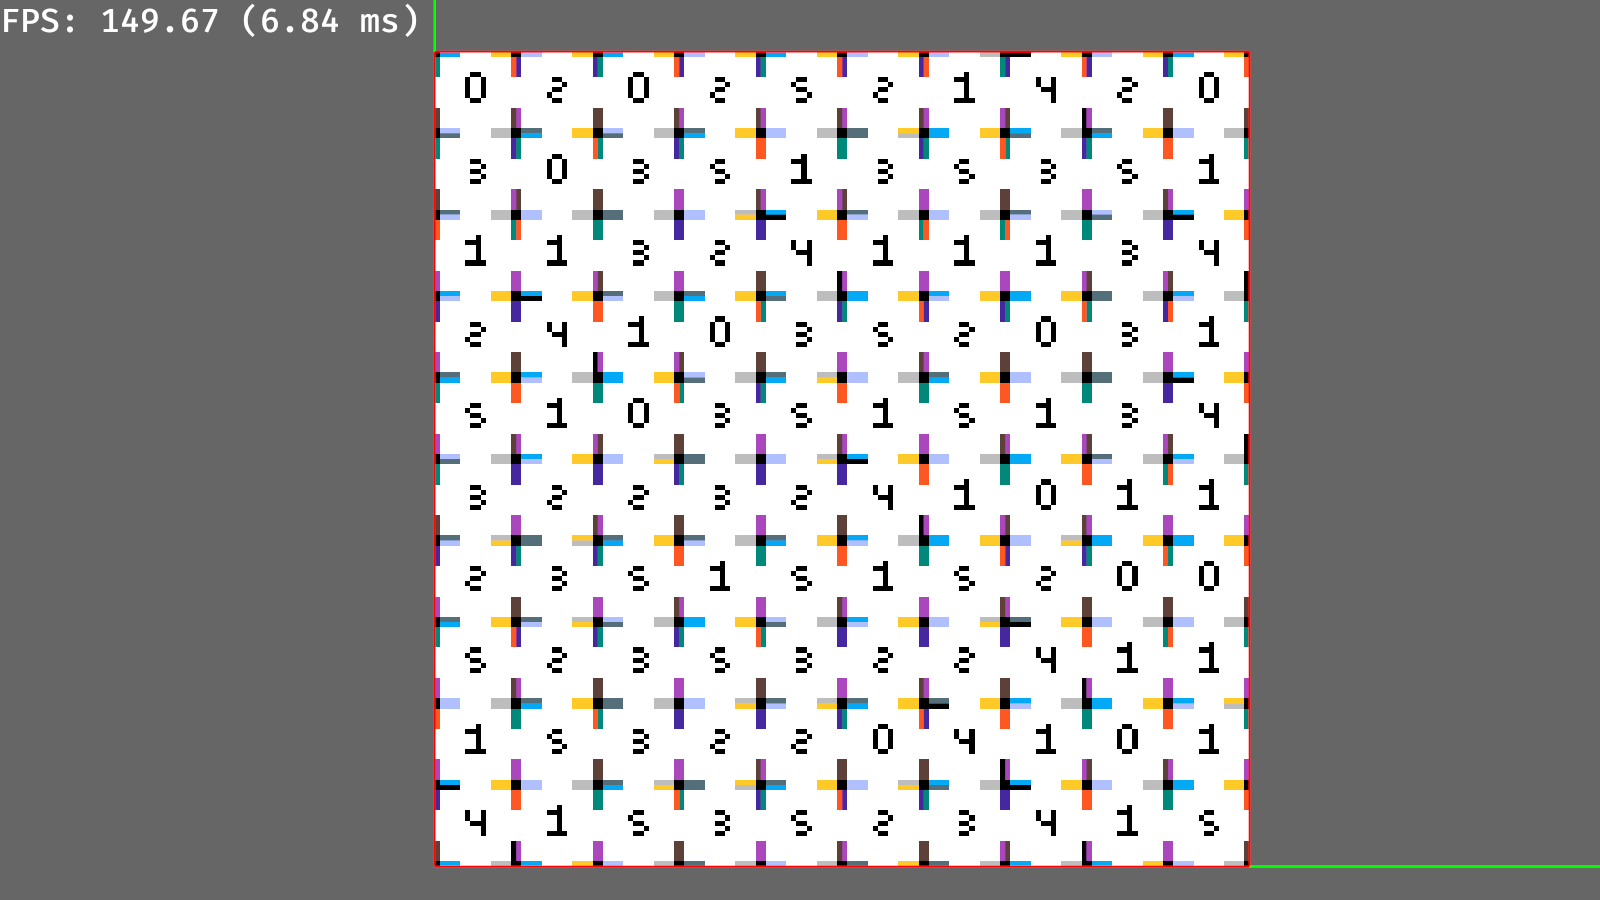
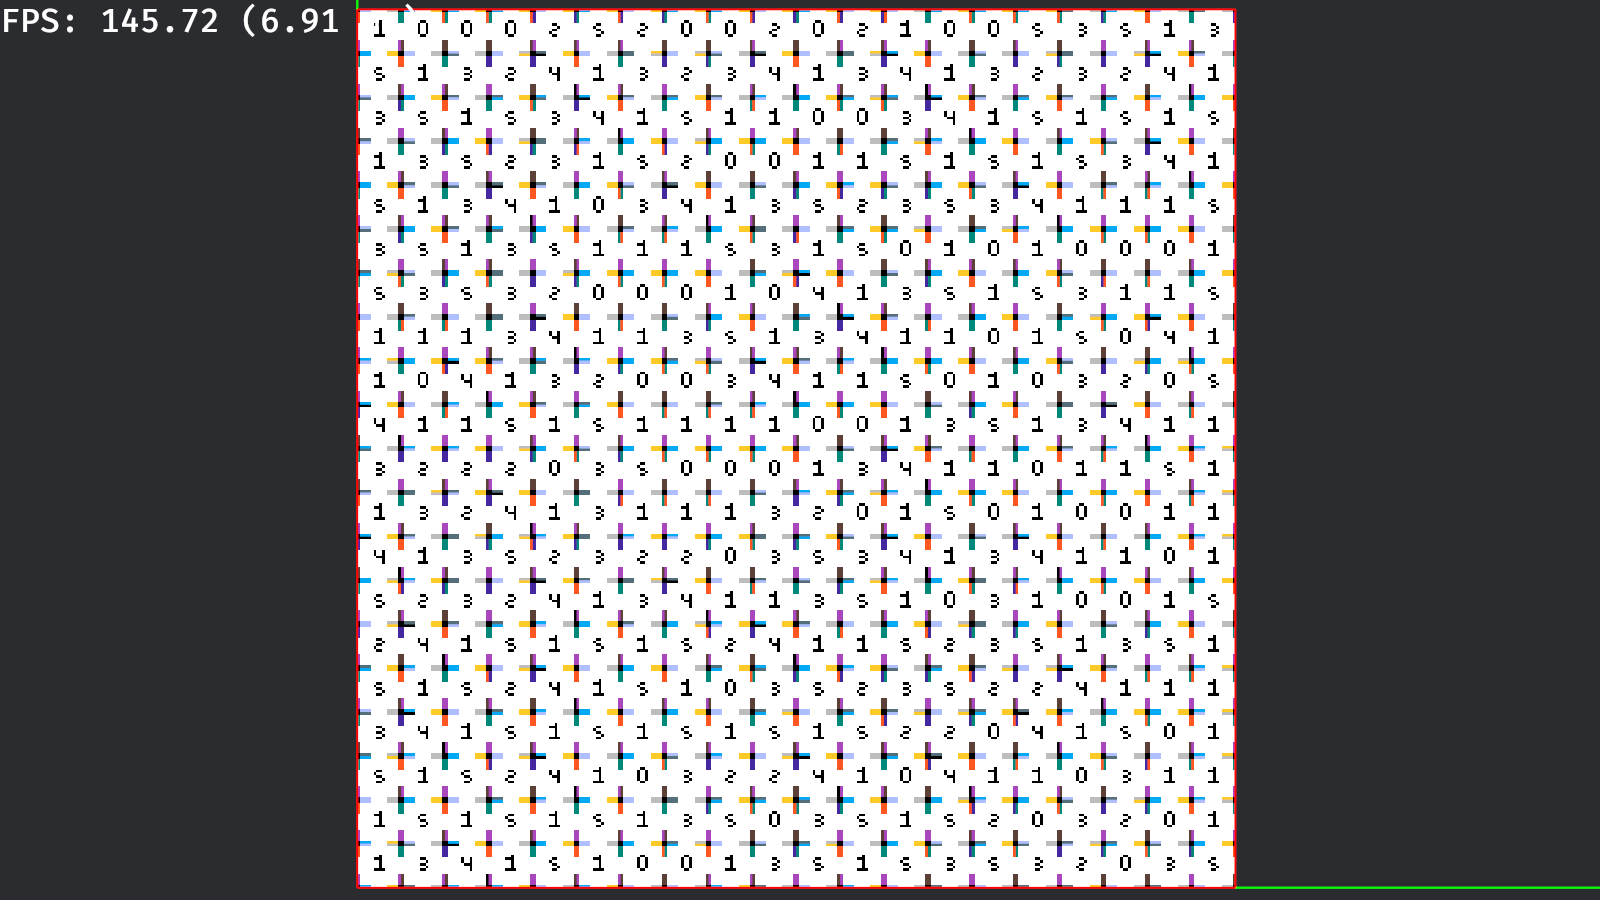
Improved wfc, updated readme

diff --git a/src/algorithm/wfc.rs b/src/algorithm/wfc.rs
@@ -38,14 +38,14 @@ pub enum WfcMode {
 /// This feature is still in preview. It may fail to generate a map and stuck in an infinite loop.
 #[derive(Component)]
 pub struct WfcRunner {
-    rule: Vec<[IndexSet<u16>; 4]>,
+    rule: Vec<[u128; 4]>,
     mode: WfcMode,
-    sampler: Option<Box<dyn Fn(&IndexSet<u16>, UVec2) -> u16 + Send + Sync>>,
+    sampler: Option<Box<dyn Fn(WfcTile) -> u8 + Send + Sync>>,
     seed: Option<u64>,
     area: FillArea,
     step_interval: Option<f32>,
     max_retrace_factor: u32,
-    max_retrace_time: u32,
+    max_retrace_count: u32,
     fallback: Option<Box<dyn Fn(Entity) + Send + Sync>>,
 }
 
@@ -64,7 +64,7 @@ impl WfcRunner {
     pub fn from_config(
         config_path: String,
         weights_path: Option<String>,
-        custom_sampler: Option<Box<dyn Fn(&IndexSet<u16>, UVec2) -> u16 + Send + Sync>>,
+        custom_sampler: Option<Box<dyn Fn(WfcTile) -> u8 + Send + Sync>>,
         area: FillArea,
         step_interval: Option<f32>,
         seed: Option<u64>,
@@ -73,12 +73,23 @@ impl WfcRunner {
             from_bytes(read_to_string(config_path).unwrap().as_bytes()).unwrap();
 
         let mut mode = WfcMode::NonWeighted;
-        let mut rule: Vec<[IndexSet<u16>; 4]> = Vec::with_capacity(rule_vec.len());
+        let mut rule_set: Vec<[IndexSet<u16>; 4]> = Vec::with_capacity(rule_vec.len());
         for tex_idx in 0..rule_vec.len() {
             let mut tex_rule: [IndexSet<u16>; 4] = Default::default();
             for dir in 0..4 {
                 for idx in rule_vec[tex_idx][dir].iter() {
                     tex_rule[dir].insert(*idx);
+                }
+            }
+            rule_set.push(tex_rule);
+        }
+
+        let mut rule: Vec<[u128; 4]> = Vec::with_capacity(rule_set.len());
+        for tex_idx in 0..rule_set.len() {
+            let mut tex_rule: [u128; 4] = Default::default();
+            for dir in 0..4 {
+                for idx in rule_set[tex_idx][dir].iter() {
+                    tex_rule[dir] |= 1 << idx;
                 }
             }
             rule.push(tex_rule);
@@ -93,10 +104,10 @@ impl WfcRunner {
                 from_bytes(read_to_string(weights_path).unwrap().as_bytes()).unwrap();
             assert_eq!(
                 weights_vec.len(),
-                rule.len(),
+                rule_set.len(),
                 "weights length not match! weights: {}, rules: {}",
                 weights_vec.len(),
-                rule.len()
+                rule_set.len()
             );
             mode = WfcMode::Weighted(weights_vec);
         }
@@ -114,8 +125,8 @@ impl WfcRunner {
             area,
             step_interval,
             seed,
-            max_retrace_factor: 8,
-            max_retrace_time: 200,
+            max_retrace_factor: 4,
+            max_retrace_count: 200,
             fallback: None,
         }
     }
@@ -124,10 +135,14 @@ impl WfcRunner {
     /// The higher those parameters are, the higher the probability of success is.
     /// But it will also dramatically increase the time cost.
     ///
-    /// Default: `max_retrace_factor` = 8, `max_retrace_time` = 200
-    pub fn with_retrace_settings(mut self, max_retrace_factor: u32, max_retrace_time: u32) -> Self {
+    /// Default: `max_retrace_factor` = 4, `max_retrace_time` = 200
+    pub fn with_retrace_settings(
+        mut self,
+        max_retrace_factor: u32,
+        max_retrace_count: u32,
+    ) -> Self {
         self.max_retrace_factor = max_retrace_factor;
-        self.max_retrace_time = max_retrace_time;
+        self.max_retrace_count = max_retrace_count;
         self
     }
 
@@ -139,17 +154,30 @@ impl WfcRunner {
 }
 
 #[derive(Debug, Clone)]
-struct WfcTile {
+pub struct WfcTile {
     pub index: UVec2,
     pub collapsed: bool,
-    pub texture_index: Option<u16>,
+    pub texture_index: Option<u8>,
     pub heap_index: usize,
-    pub psbs: IndexSet<u16>,
+    pub psbs: u128,
 }
 
+impl WfcTile {
+    pub fn get_vec_psbs(&self) -> Vec<u8> {
+        let mut result = Vec::with_capacity(self.psbs.count_ones() as usize);
+        for i in 0..128 {
+            if self.psbs & (1 << i) != 0 {
+                result.push(i as u8);
+            }
+        }
+        result
+    }
+}
+
+#[derive(Clone)]
 struct WfcHistory {
     grid: Vec<WfcTile>,
-    heap: Vec<(u16, UVec2)>,
+    heap: Vec<(u8, UVec2)>,
     remaining: usize,
 }
 
@@ -159,9 +187,9 @@ struct WfcGrid {
     size: UVec2,
     grid: Vec<WfcTile>,
     rng: StdRng,
-    rule: Vec<[IndexSet<u16>; 4]>,
-    sampler: Option<Box<dyn Fn(&IndexSet<u16>, UVec2) -> u16 + Send + Sync>>,
-    heap: Vec<(u16, UVec2)>,
+    rule: Vec<[u128; 4]>,
+    sampler: Option<Box<dyn Fn(WfcTile) -> u8 + Send + Sync>>,
+    heap: Vec<(u8, UVec2)>,
     remaining: usize,
     retrace_strength: u32,
     max_retrace_factor: u32,
@@ -186,10 +214,10 @@ impl WfcGrid {
                     index: UVec2 { x, y },
                     texture_index: None,
                     collapsed: false,
-                    psbs: (0..max_psbs).collect(),
+                    psbs: (!0) >> (128 - max_psbs),
                 });
 
-                heap.push((runner.rule.len() as u16, UVec2 { x, y }));
+                heap.push((runner.rule.len() as u8, UVec2 { x, y }));
                 heap_index += 1;
             }
         }
@@ -208,7 +236,7 @@ impl WfcGrid {
             remaining: runner.area.size(),
             retrace_strength: 1,
             max_retrace_factor: runner.max_retrace_factor,
-            max_retrace_time: runner.max_retrace_time,
+            max_retrace_time: runner.max_retrace_count,
             retraced_time: 0,
             sampler: runner.sampler.take(),
             fallback: runner.fallback.take(),
@@ -272,32 +300,26 @@ impl WfcGrid {
         }
 
         let index = tile.index;
-        let entropy = tile.psbs.len() as usize;
+        let entropy = tile.psbs.count_ones() as usize;
 
         let psb = match &self.mode {
-            WfcMode::NonWeighted => self.rng.sample(Uniform::new(0, entropy)),
-            WfcMode::Weighted(w) => {
-                let weights = tile.psbs.iter().map(|p| w[*p as usize]).collect::<Vec<_>>();
-                self.rng.sample(WeightedIndex::new(weights).unwrap())
+            WfcMode::NonWeighted => {
+                let psb_vec = tile.get_vec_psbs();
+                psb_vec[self.rng.sample(Uniform::new(0, entropy))]
             }
-            WfcMode::CustomSampler => self.sampler.as_ref().unwrap()(&tile.psbs, index) as usize,
+            WfcMode::Weighted(w) => {
+                let psb_vec = tile.get_vec_psbs();
+                let weights = psb_vec.iter().map(|p| w[*p as usize]).collect::<Vec<_>>();
+                psb_vec[self.rng.sample(WeightedIndex::new(weights).unwrap())]
+            }
+            WfcMode::CustomSampler => self.sampler.as_ref().unwrap()(tile.clone()) as u8,
         };
 
-        self.retrace_strength *= self.rng.sample(Uniform::new(2, self.max_retrace_factor));
+        self.retrace_strength *= self.rng.sample(Uniform::new(1, self.max_retrace_factor));
 
-        let mode = self.mode.clone();
         let tile = self.get_tile_mut(index).unwrap();
-
-        // because of the existing of ownership,
-        // we can't map the indices to possibilities when mathing.
-        if mode == WfcMode::CustomSampler {
-            tile.texture_index = Some(psb as u16);
-            tile.psbs = IndexSet::from([psb as u16]);
-        } else {
-            tile.texture_index = Some(tile.psbs[psb]);
-            tile.psbs = IndexSet::from([tile.psbs[psb]]);
-        }
-
+        tile.texture_index = Some(psb);
+        tile.psbs = 1 << psb;
         tile.collapsed = true;
 
         self.spread_constraint(index);
@@ -315,7 +337,7 @@ impl WfcGrid {
             let cur_tile = self.get_tile(cur_ctr).unwrap().clone();
 
             let neighbours = self.neighbours(cur_ctr);
-            let mut psbs_cache = vec![IndexSet::default(); 4];
+            let mut psbs_cache = vec![0; 4];
 
             // constrain
             for dir in 0..neighbours.len() {
@@ -328,22 +350,18 @@ impl WfcGrid {
                 #[cfg(feature = "debug_verbose")]
                 println!("constraining: {:?}", neighbours[dir]);
 
-                for psb in cur_tile.psbs.iter() {
-                    psbs_cache[dir] = psbs_cache[dir]
-                        .union(&self.rule[*psb as usize][dir])
-                        .map(|e| *e)
-                        .collect::<IndexSet<u16>>();
+                for i in 0..self.rule.len() {
+                    if cur_tile.psbs & (1 << i) != 0 {
+                        psbs_cache[dir] |= self.rule[i][dir];
+                    }
                 }
-                psbs_cache[dir] = psbs_cache[dir]
-                    .intersection(&neighbour_tile.psbs)
-                    .map(|e| *e)
-                    .collect::<IndexSet<u16>>();
+                psbs_cache[dir] &= neighbour_tile.psbs;
                 #[cfg(feature = "debug_verbose")]
                 println!(
                     "{}'s psbs: {:?}, dir={})",
                     neighbours[dir], psbs_cache[dir], dir
                 );
-                if psbs_cache[dir].len() == 0 {
+                if psbs_cache[dir].count_ones() == 0 {
                     #[cfg(feature = "debug_verbose")]
                     println!("start retrace because of: {}", neighbours[dir]);
                     self.retrace();
@@ -371,10 +389,18 @@ impl WfcGrid {
     pub fn retrace(&mut self) {
         #[cfg(feature = "debug")]
         println!("retrace with strength: {}", self.retrace_strength);
-        for _ in 0..self.retrace_strength - 1 {
-            self.history.pop();
-        }
-        let hist = self.history.pop().unwrap();
+        let hist = {
+            if self.history.len() > self.retrace_strength as usize {
+                for _ in 0..self.retrace_strength {
+                    self.history.pop();
+                }
+                self.history.pop().unwrap()
+            } else {
+                let h = self.history[0].clone();
+                self.history.clear();
+                h
+            }
+        };
         self.grid = hist.grid;
         self.remaining = hist.remaining;
         self.heap = hist.heap;
@@ -420,7 +446,7 @@ impl WfcGrid {
 
         let tile = self.get_tile_mut(index).unwrap();
         let heap_index = tile.heap_index;
-        self.heap[heap_index].0 = tile.psbs.len() as u16;
+        self.heap[heap_index].0 = tile.psbs.count_ones() as u8;
         self.shift_up(heap_index);
     }
 

diff --git a/examples/wfc.rs b/examples/wfc.rs
@@ -13,7 +13,7 @@ use bevy_entitiles::{
     tilemap::{TileType, TilemapBuilder},
     EntiTilesPlugin,
 };
-use indexmap::IndexSet;
+use rand::Rng;
 
 fn main() {
     App::new()
@@ -28,7 +28,7 @@ fn setup(mut commands: Commands, asset_server: Res<AssetServer>) {
 
     let (tilemap_entity, tilemap) = TilemapBuilder::new(
         TileType::Square,
-        UVec2 { x: 50, y: 50 },
+        UVec2 { x: 20, y: 20 },
         Vec2 { x: 32., y: 32. },
     )
     .with_texture(
@@ -41,22 +41,25 @@ fn setup(mut commands: Commands, asset_server: Res<AssetServer>) {
     )
     .build(&mut commands);
 
-    // The following code is NOT reasonable. For their ridiculous parameters.
+    // The following code is NOT reasonable for every project.
     // I just want to show you the full functionality.
     // Please adjust them before you run the program.
     commands.entity(tilemap_entity).insert(
         WfcRunner::from_config(
             "examples/wfc_config.ron".to_string(),
             None,
+            // If you want to make custom_sampler work, replace the None with the commented code below.
+            None,
             // just a simple example, you can use some noise function
-            Some(Box::new(|psbs: &IndexSet<u16>, index: UVec2| {
-                psbs[rand::random::<usize>() % psbs.len()]
-            })),
+            // Some(Box::new(|tile| {
+            //     let psbs = tile.get_vec_psbs();
+            //     psbs[rand::thread_rng().sample(rand::distributions::Uniform::from(0..psbs.len()))]
+            // })),
             FillArea::full(&tilemap),
             None,
             None,
         )
-        .with_retrace_settings(8, 5)
+        .with_retrace_settings(8, 10000)
         .with_fallback(Box::new(|e| println!("Failed to generate: {:?}", e))),
     );
 }

diff --git a/README.md b/README.md
@@ -57,7 +57,7 @@ Notice this tests are done with **synchronized pathfinding**. Which means whole 
 | 500x500   | 295.67                  |
 | 1000x1000 | 1384.33                 |
 
-> *Bevy 0.12, crate 0.2.1 (dev), using `pathfinding` example*
+> *Bevy 0.12, crate 0.2.1, using `pathfinding` example*
 
 ### Wave Function Collapse
 
@@ -67,17 +67,17 @@ In the following case, each tile has at least one corresponding color gap with i
 	<img src="./docs/imgs/wfc.png" width="500px">
 </div>
 
-Due to the lack of optimization and the straightforward implementation of this algorithm, its execution time increases rapidly as the map size grows. And the likelihood of failure also increases.
+| Size    | Time(avg of 3 tests) ms | Time(avg of 3 tests) ms |
+| ------- | ----------------------- | ----------------------- |
+| 10x10   | 33.312                  | 16.264 (3)              |
+| 20x20   | 490.950                 | 96.009 (3)              |
+| 30x30   | 2,280.121               | 335.697 (6)             |
+| 50x50   | 18,838.542              | 2,095.428 (8)           |
+| 100x100 | (Not measurable)        | 32,309.045 (16)         |
 
-| Size  | Time(avg of 3 tests) ms |
-| ----- | ----------------------- |
-| 5x5   | 3.92                    |
-| 10x10 | 33.312                  |
-| 20x20 | 490.950                 |
-| 30x30 | 2280.121                |
-| 50x50 | 18838.542               |
-
-> *Bevy 0.11.3, crate 0.2.0, None weighted*
+> *Column 1: Bevy 0.11.3, crate 0.2.0, NoneWeighted*
+> 
+> *Column 2: Bevy 0.12, crate 0.2.1, NoneWeighted, `max_retrace_factor` = number in parentheses*
 
 ## Versions
 
@@ -85,4 +85,3 @@ Due to the lack of optimization and the straightforward implementation of this a
 | -------- | ------------- |
 | 0.12.x   | 0.2.x         |
 | 0.11.x   | 0.1.x         |
-

diff --git a/release_note.md b/release_note.md
@@ -1,0 +1,3 @@
+# What's New:
+- Optimization on pathfinding and wave function collapse. Both of them are really fast now.
+- Merged the similar data structure.
